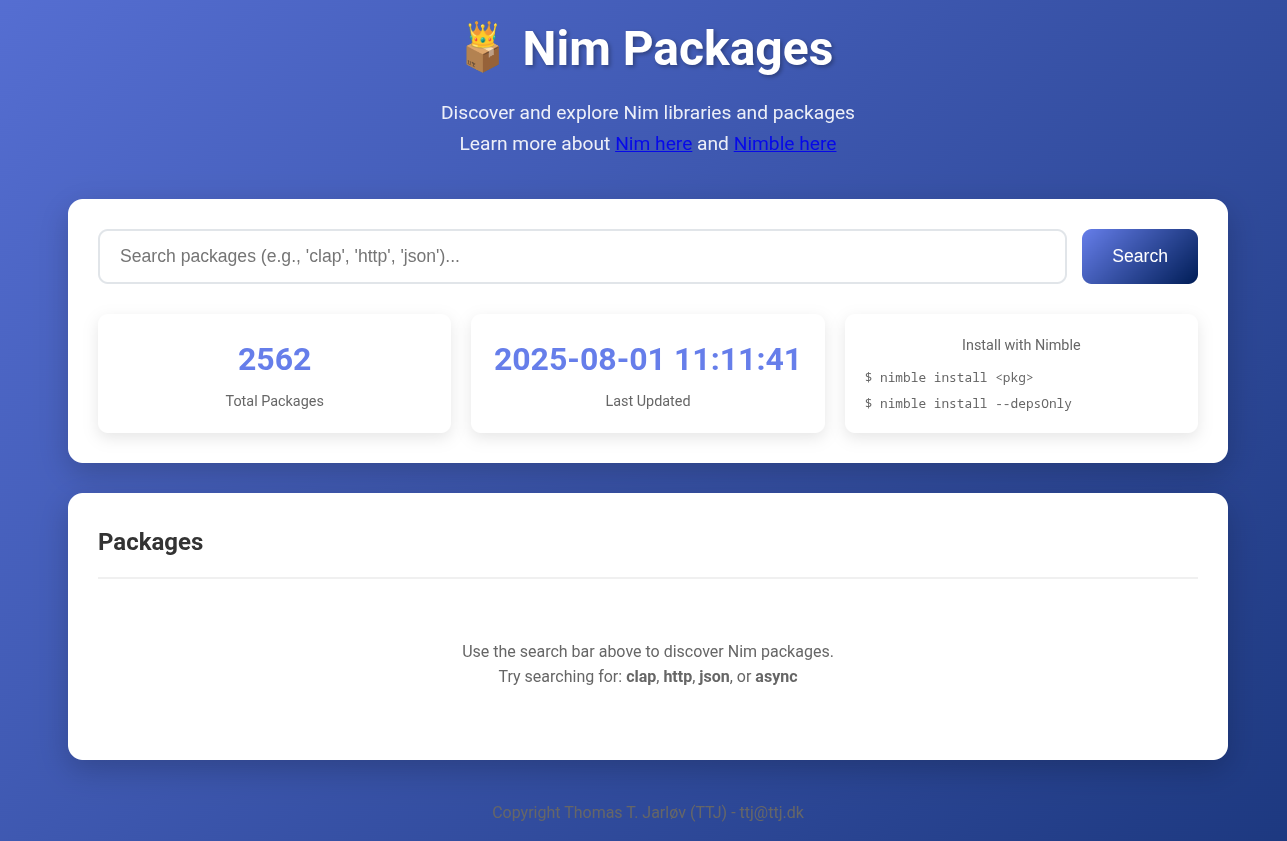
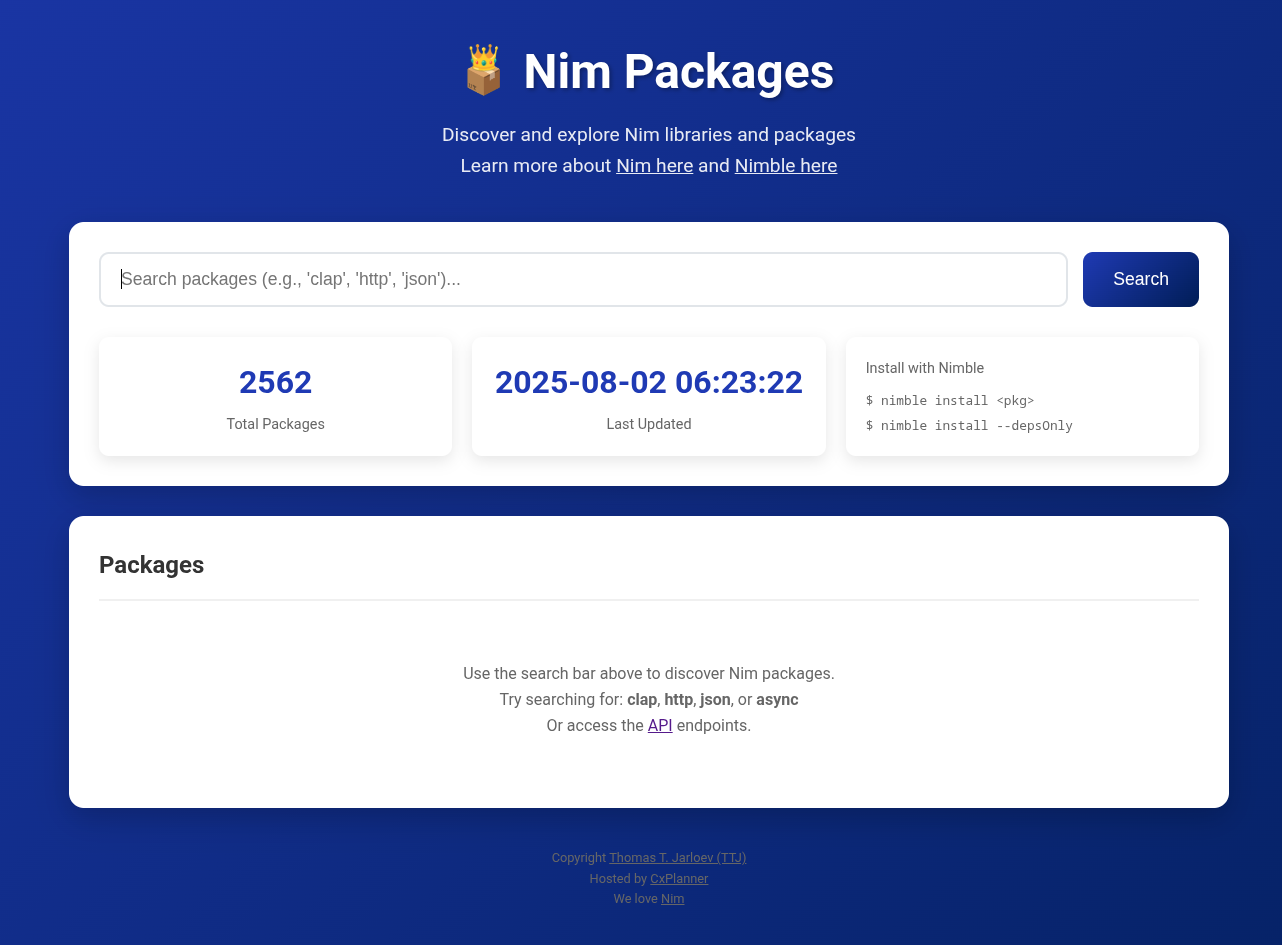
Index packages.json every 12 hours

diff --git a/README.md b/README.md
@@ -3,3 +3,24 @@
 Wupti. I like Nim. Go to [https://nimpackages.com/](https://nimpackages.com/)
 
 ![Nim Packages Website Screenshot](screenshot.png)
+
+Nim Packages is a website that lists all Nim packages based on the official package.json containing all indexed Nim packages.
+
+The website allows browsing the packages through the browser, but also provides a REST API.
+
+The packages are updated and indexed every 12 hours.
+
+## Running
+
+```bash
+nimble build
+./nimpackages
+```
+
+## Dependencies
+
+The dependencies are located locally in the `nimbledeps` folder.
+
+## CI: Container image
+
+See the Github Actions workflow for the container image. It includes the CI pipeline to compile, generate and publish the container image.
